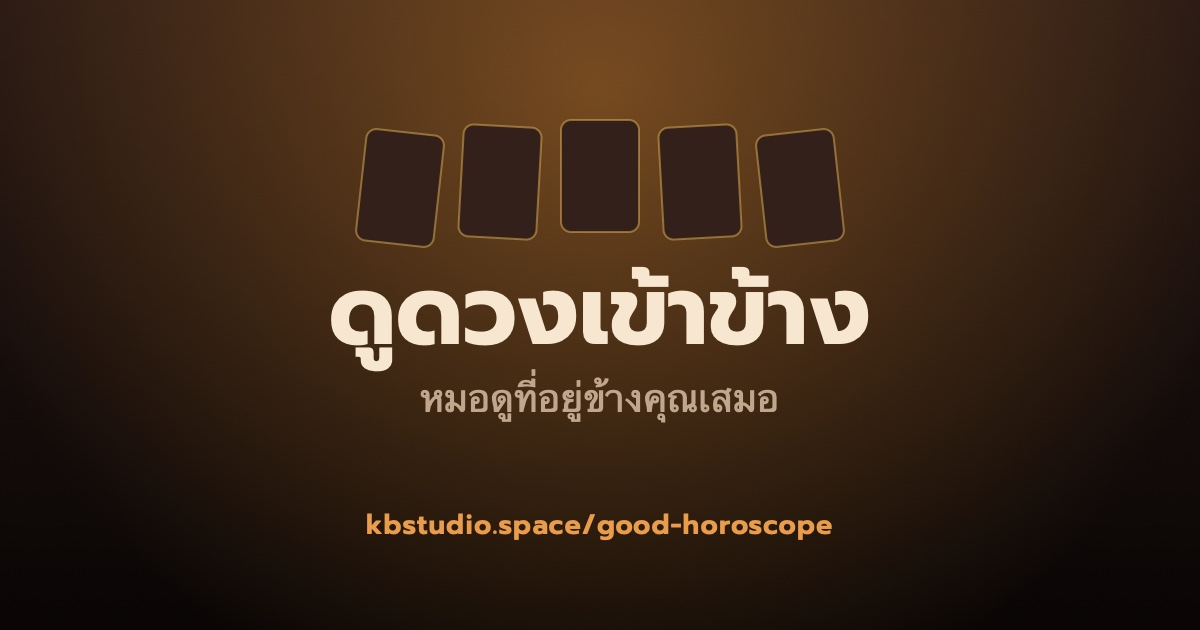
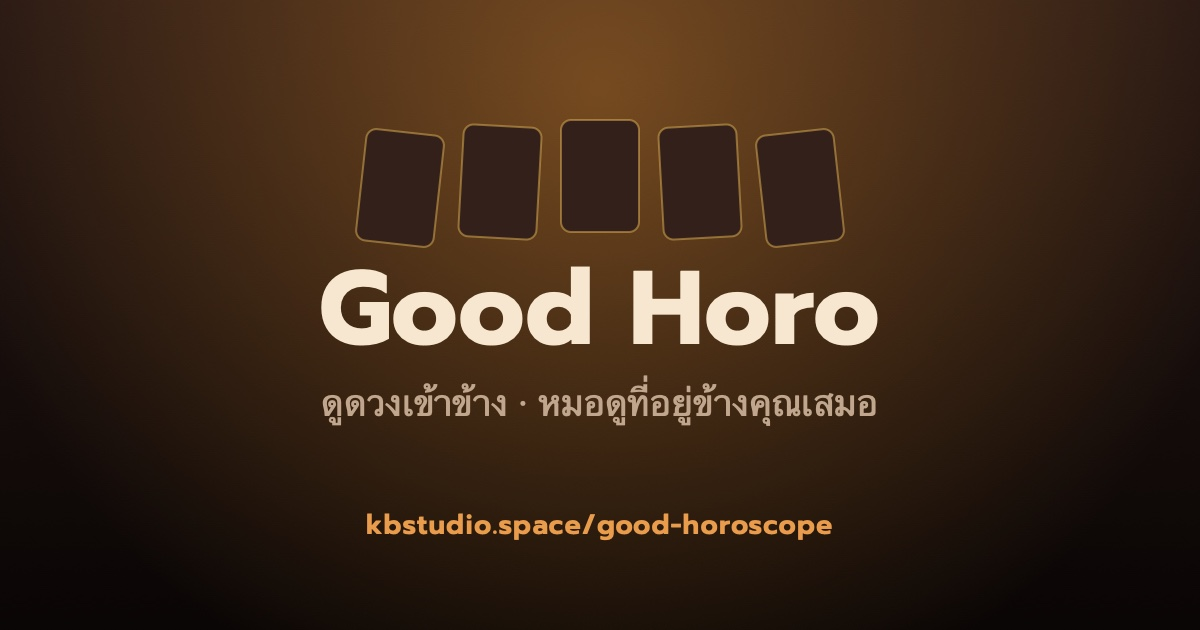
Regenerate the OG card with "Good Horo"
The headline now matches og:title and the kbstudio.space directory label.
The Thai line below keeps the app's own name and tagline, so the card
still reads in both languages. Alt text updated to match.

Changed region(s): [[0.2467, 0.4222, 0.74, 0.6937]]

diff --git a/tools/og-image.swift b/tools/og-image.swift
@@ -112,13 +112,15 @@ for i in 0..<5 {
 	cardX += cardW + gap
 }
 
+// "Good Horo" matches og:title and the kbstudio.space directory label; the Thai line
+// below carries the app's own name and tagline, so the card reads in both languages.
 draw(
-	"ดูดวงเข้าข้าง", "Prompt-Bold", 96, rgb(244, 226, 198),
+	"Good Horo", "Prompt-Bold", 104, rgb(244, 226, 198),
 	cx: W / 2, y: 286, maxWidth: W - 140)
 
 draw(
-	"หมอดูที่อยู่ข้างคุณเสมอ", "IBMPlexSansThai", 38, rgb(178, 150, 122),
-	cx: W / 2, y: 218, maxWidth: W - 200)
+	"ดูดวงเข้าข้าง · หมอดูที่อยู่ข้างคุณเสมอ", "IBMPlexSansThai", 36, rgb(178, 150, 122),
+	cx: W / 2, y: 214, maxWidth: W - 180)
 
 draw(
 	"kbstudio.space/good-horoscope", "Prompt-SemiBold", 27, rgb(226, 138, 60),

diff --git a/src/routes/+page.svelte b/src/routes/+page.svelte
@@ -43,7 +43,7 @@
 	<meta property="og:image:type" content="image/jpeg" />
 	<meta property="og:image:width" content="1200" />
 	<meta property="og:image:height" content="630" />
-	<meta property="og:image:alt" content="ดูดวงเข้าข้าง — หมอดูที่อยู่ข้างคุณเสมอ" />
+	<meta property="og:image:alt" content="Good Horo — ดูดวงเข้าข้าง หมอดูที่อยู่ข้างคุณเสมอ" />
 	<meta name="twitter:card" content="summary_large_image" />
 	<meta name="twitter:title" content="Good Horo" />
 	<meta
